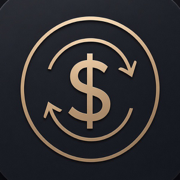
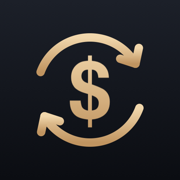
Экран не сдвигается при вводе, новая иконка

diff --git a/index.html b/index.html
@@ -13,8 +13,8 @@
 <style>
 :root{--bg:#0b0d12;--card:#12151c;--line:#1f232d;--key:#171a22;--keyp:#252a35;--text:#eef0f4;--muted:#8a909c;--gold:#d6b48a;--red:#e5484d}
 *{box-sizing:border-box;-webkit-tap-highlight-color:transparent;user-select:none;-webkit-user-select:none}
-html,body{margin:0;height:100%;background:var(--bg);color:var(--text);font-family:-apple-system,BlinkMacSystemFont,"SF Pro Text",system-ui,sans-serif;overscroll-behavior:none}
-body{display:flex;flex-direction:column;padding:calc(env(safe-area-inset-top) + 28px) 16px calc(env(safe-area-inset-bottom) + 4px)}
+html,body{margin:0;height:100%;overflow:hidden;touch-action:manipulation;background:var(--bg);color:var(--text);font-family:-apple-system,BlinkMacSystemFont,"SF Pro Text",system-ui,sans-serif;overscroll-behavior:none}
+body{position:fixed;inset:0;height:auto;display:flex;flex-direction:column;padding:calc(env(safe-area-inset-top) + 28px) 16px calc(env(safe-area-inset-bottom) + 4px)}
 header{display:flex;justify-content:space-between;align-items:center;margin-bottom:16px}
 #upd{color:#b4bac5;font-size:15px;line-height:1.4}
 #upd b{font-weight:400}

diff --git a/sw.js b/sw.js
@@ -1,5 +1,5 @@
 // Офлайн-кэш приложения. При каждом изменении файлов меняйте версию CACHE.
-const CACHE = 'converter-v4';
+const CACHE = 'converter-v5';
 const ASSETS = ['./', './index.html', './manifest.webmanifest', './icon-180.png', './icon-192.png', './icon-512.png'];
 
 self.addEventListener('install', e => {
